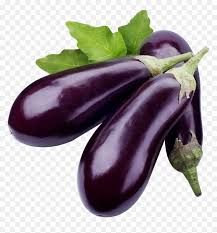
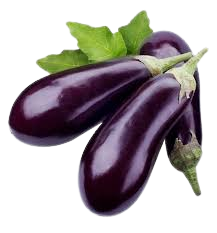
Added images and made minute changes

diff --git a/src/components/Header.js b/src/components/Header.js
@@ -1,82 +1,113 @@
-import React from 'react';
-import { Link } from 'react-router-dom';
-import '../styles/header.css'; // Make sure to import the CSS file
-import { FontAwesomeIcon } from '@fortawesome/react-fontawesome';
-import { faSearch, faUsers, faMobile, faHome, faUser, faShoppingCart } from '@fortawesome/free-solid-svg-icons';
-
+import React from "react";
+import { Link } from "react-router-dom";
+import "../styles/header.css"; // Make sure to import the CSS file
+import { FontAwesomeIcon } from "@fortawesome/react-fontawesome";
+import {
+  faSearch,
+  faUsers,
+  faMobile,
+  faHome,
+  faUser,
+  faShoppingCart,
+} from "@fortawesome/free-solid-svg-icons";
 
 const HeaderComponent = () => {
-    return (
-        <>
-            {/* Top Header */}
-            <marquee>
-                <div className="width-100 top-header">
-                    <div className="container">
-                        <div className="width-50">
-                            <p className="head1p1 headquote">Green Grocers: Get it fresh! </p>
-                        </div>
-                        <div className="width-50">
-                            <ul className="head1ul cashback-sect">
-                                <li>
-                                    <FontAwesomeIcon icon={faUsers} className='fa-fade'/>
-                                    <a className="head1mr" href="#">Refer Your Friend And Earn Rs. 500 Cashback</a>
-                                </li>
-                                <li>
-                                <FontAwesomeIcon icon={faMobile} className='fa-fade'/>
-                                    <a href="#"> Download App</a>
-                                </li>
-                            </ul>
-                        </div>
-                    </div>
-                    <span className="navhead"></span>
-                </div>
-            </marquee>
-
-            {/* Logo and Search Panel */}
-            <div className="width-100 search-panel">
-                <div className="container">
-                    <div className="width-20">
-                          <Link to="/">
-                            <img src="images/logo.png" alt="Your logo" style={{ position: 'relative', top: '-35px', left: '-180px', width: '220px', height: '100px' }} />
-                          </Link>
-                    </div>
-                    {/* search section */}
-                    <form autoComplete="off">
-                        <div className="width-50">
-                            <input type="text" id="input" name="searchBox" placeholder="Search for exquisite fruits, vegetables and more" />
-                            <Link to="./Shopping">
-                            <button className="search-button">
-                                <FontAwesomeIcon icon={faSearch} className='fa-fade'/>
-                            </button>
-                            </Link>
-                        </div>
-                        <ul className="list"></ul>
-                    </form>
-                    <script src="Search.js"></script>
-                    <div className="width-30">
-                        <ul className="cart-sect" style={{ position: 'relative', right:-160 }}>
-                            <li>
-                            <Link to="/">
-                            <FontAwesomeIcon icon={faHome} /> &nbsp;
-                                Home
-                            </Link>
-                            </li>
-                            <li>
-                            <Link to="/Signin">
-                            <FontAwesomeIcon icon={faUser} />&nbsp;
-                            Login</Link>
-                            </li>
-                            <li>
-                                <Link to='/cart'>
-                                <FontAwesomeIcon icon={faShoppingCart} size="lg" className='fa-flip'/>
-                                </Link>
-                            </li>
-                        </ul>
-                    </div>
-                </div>
+  return (
+    <>
+      {/* Top Header */}
+      <marquee>
+        <div className="width-100 top-header">
+          <div className="container">
+            <div className="width-50">
+              <p className="head1p1 headquote">Green Grocers: Get it fresh! </p>
             </div>
-        </>
-    );
+            <div className="width-50">
+              <ul className="head1ul cashback-sect">
+                <li>
+                  <FontAwesomeIcon icon={faUsers} className="fa-fade" />
+                  <a className="head1mr" href="#">
+                    Refer Your Friend And Earn Rs. 500 Cashback
+                  </a>
+                </li>
+                <li>
+                  <FontAwesomeIcon icon={faMobile} className="fa-fade" />
+                  <a href="#"> Download App</a>
+                </li>
+              </ul>
+            </div>
+          </div>
+          <span className="navhead"></span>
+        </div>
+      </marquee>
+
+      {/* Logo and Search Panel */}
+      <div className="width-100 search-panel">
+        <div className="container">
+          <div className="width-20">
+            <Link to="/">
+              <img
+                src="images/logo.png"
+                alt="Your logo"
+                style={{
+                  position: "relative",
+                  top: "-35px",
+                  left: "-180px",
+                  width: "220px",
+                  height: "100px",
+                }}
+              />
+            </Link>
+          </div>
+          {/* search section */}
+          <form autoComplete="off">
+            <div className="width-50">
+              <input
+                type="text"
+                id="input"
+                name="searchBox"
+                placeholder="Search for exquisite fruits, vegetables and more"
+              />
+              <Link to="./Shopping">
+                <button className="search-button">
+                  <FontAwesomeIcon icon={faSearch} className="fa-fade" />
+                </button>
+              </Link>
+            </div>
+            <ul className="list"></ul>
+          </form>
+          <script src="Search.js"></script>
+          <div className="width-30">
+            <ul
+              className="cart-sect"
+              style={{ position: "relative", right: -160 }}
+            >
+              <li>
+                <Link to="/">
+                  <FontAwesomeIcon icon={faHome} />
+                  &nbsp; Home
+                </Link>
+              </li>
+              <li>
+                <Link to="/Signin">
+                  <FontAwesomeIcon icon={faUser} />
+                  &nbsp; Login
+                </Link>
+              </li>
+              <li>
+                <Link to="/cart">
+                  <FontAwesomeIcon
+                    icon={faShoppingCart}
+                    size="lg"
+                    className="fa-flip"
+                  />
+                </Link>
+              </li>
+            </ul>
+          </div>
+        </div>
+      </div>
+    </>
+  );
 };
 
 export default HeaderComponent;

diff --git a/src/styles/footer.css b/src/styles/footer.css
@@ -1,5 +1,4 @@
 @import url('https://fonts.googleapis.com/css2?family=Poppins:wght@300;400;500;600;700&display=swap');
-
 body {
     line-height: 1.5;
     font-family: 'Poppins', sans-serif;
@@ -29,7 +28,7 @@ ul {
     background-color: #74c95e;
     padding: 1px 0;
     padding-bottom: 40px;
-    position:sticky;
+    position: sticky;
     z-index: 4;
 }
 
@@ -97,7 +96,7 @@ ul {
 }
 
 .footerBottom {
-    background-color: rgb(250, 250, 250);
+    background-color: rgb(213, 213, 213);
     padding: 5px;
     text-align: center;
     bottom: 0;
@@ -122,9 +121,12 @@ ul {
     position: relative;
     animation: slidein 10s infinite;
 }
+
 .fa-beat-fade {
-    color: rgb(30, 255, 0); /* Replace 'red' with the desired color */
-  }
+    color: rgb(30, 255, 0);
+    /* Replace 'red' with the desired color */
+}
+
 
 /* Define the animation keyframes */
 
@@ -133,7 +135,6 @@ ul {
         left: 100%;
         /* Start off-screen */
     }
-
     to {
         left: 0;
         /* Slide to the original position */
